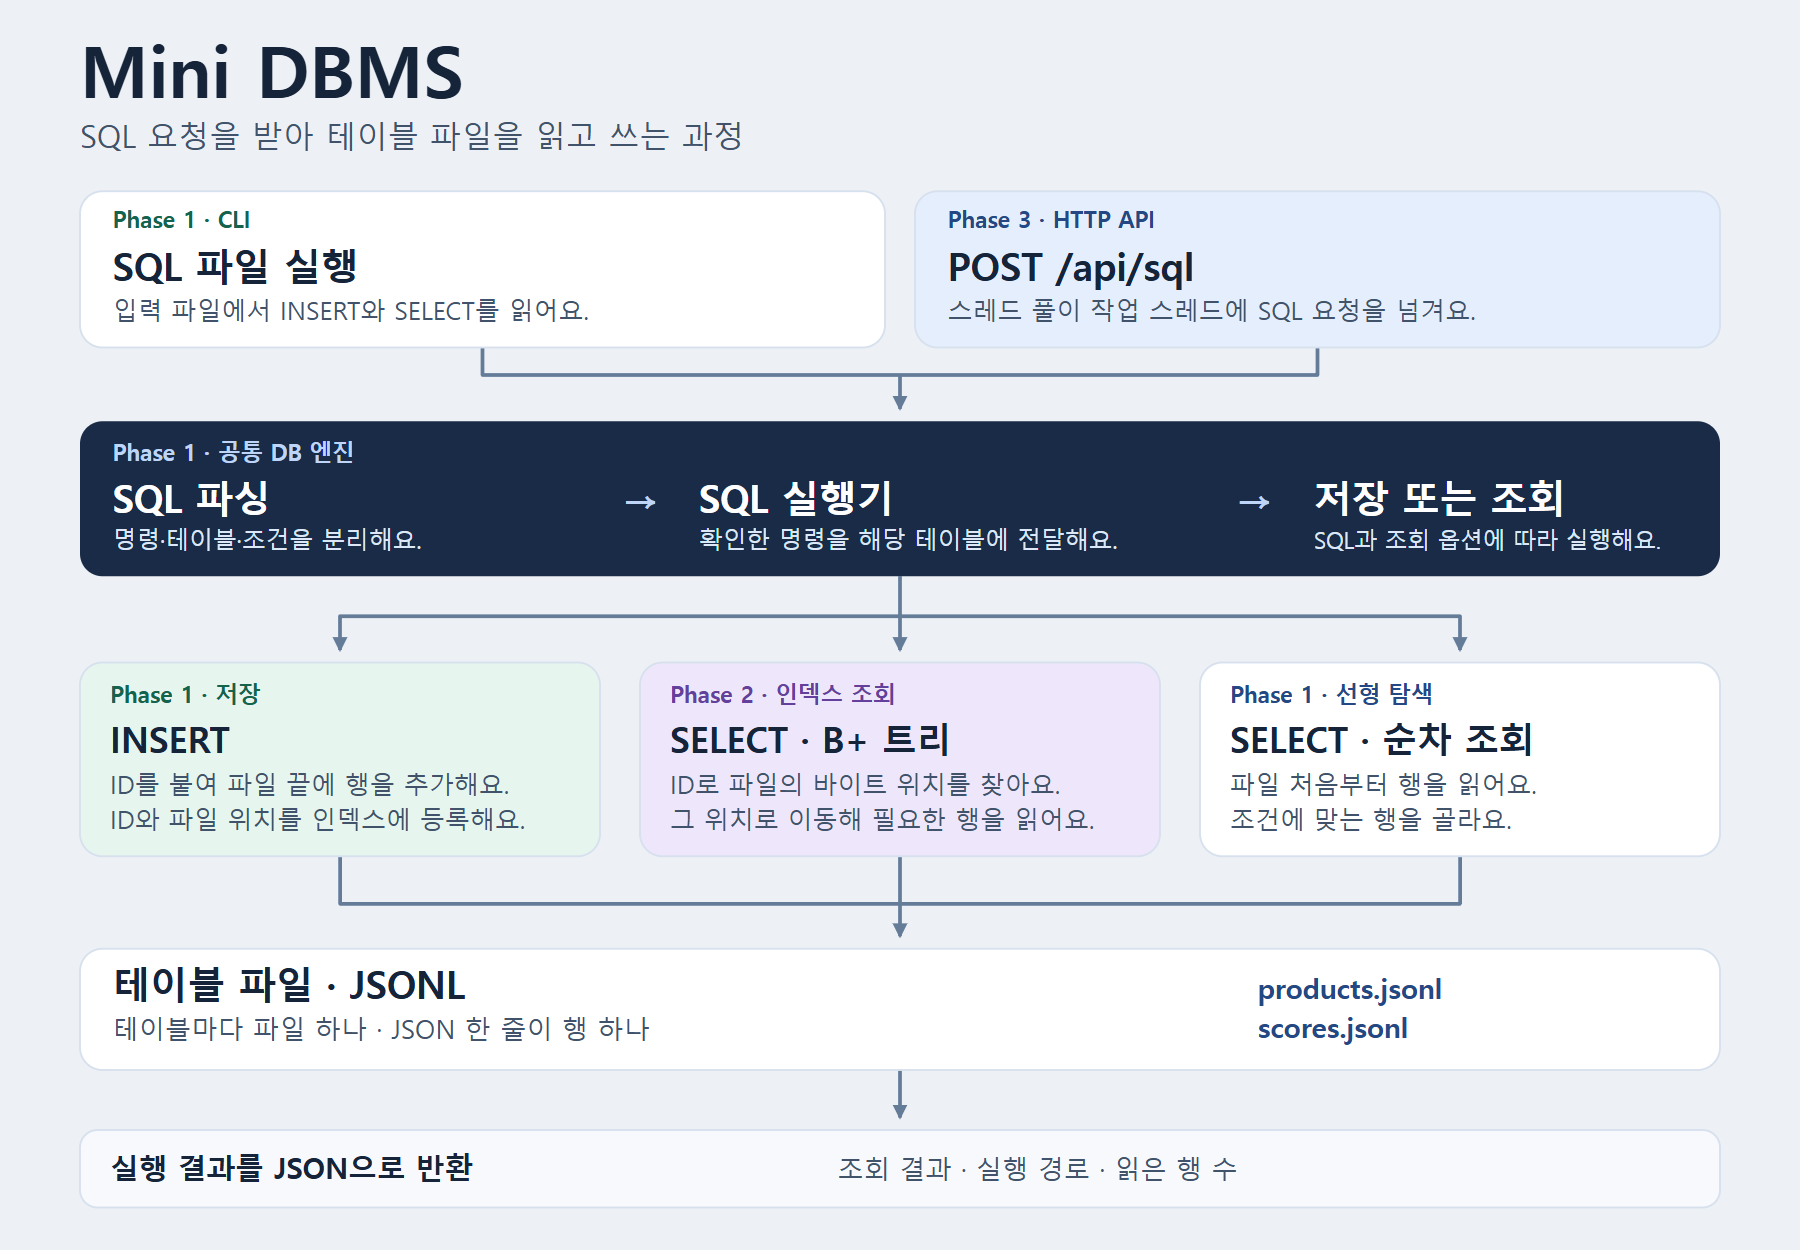
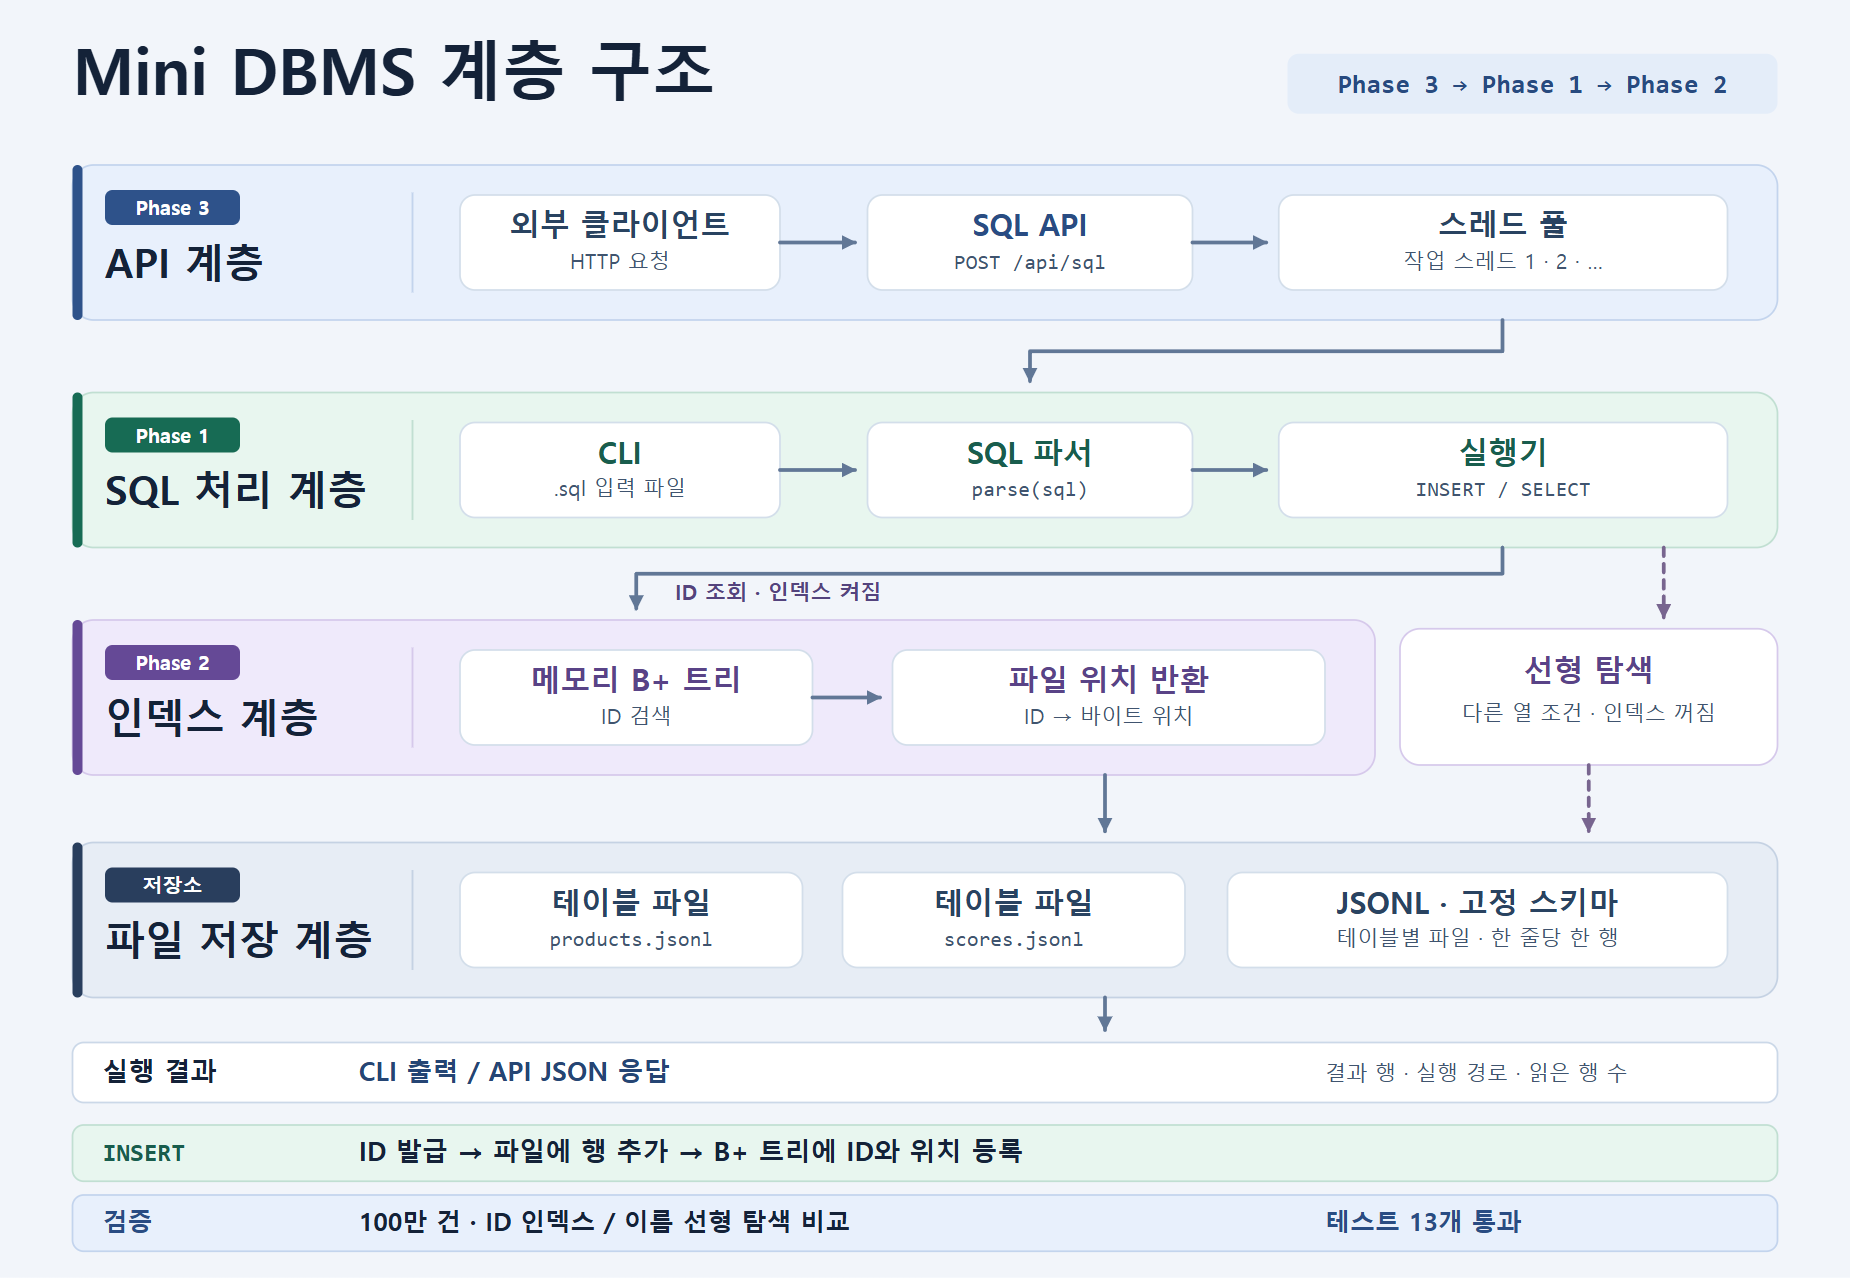
Document Mini DBMS layers with architecture diagram

diff --git a/readme.md b/readme.md
@@ -1,0 +1,16 @@
+# Mini DBMS
+
+SQL을 직접 해석하고 테이블 파일에 행을 저장하는 Python 기반 데이터베이스입니다.
+
+![Mini DBMS 계층도. Phase 3 API, Phase 1 SQL 처리, Phase 2 인덱스, 파일 저장 계층 순서와 선형 탐색 경로](mini-dbms/docs/architecture.png)
+
+API에서 인덱스를 사용하는 ID 조회는 **Phase 3 스레드 풀 → Phase 1 SQL 처리기 → Phase 2 B+ 트리** 순서로 이어집니다. B+ 트리는 행이 있는 파일 위치를 반환합니다. 인덱스가 적용되지 않는 조회는 테이블 파일을 순서대로 읽습니다. CLI로 `.sql` 파일을 실행하면 Phase 1의 같은 SQL 처리기로 들어갑니다.
+
+## 바로 실행하기
+
+~~~powershell
+cd mini-dbms
+python -m mini_dbms.cli examples/demo.sql
+~~~
+
+[전체 실행 방법과 API 예제](mini-dbms/README.md) · [100만 건 성능 비교 결과](mini-dbms/reports/benchmark.json)

diff --git a/mini-dbms/README.md b/mini-dbms/README.md
@@ -2,7 +2,11 @@
 
 SQL을 직접 파싱하고 실행하는 Python 파일 기반 데이터베이스입니다. Python 3.11 이상과 표준 라이브러리로 실행할 수 있습니다.
 
-![CLI와 HTTP API가 공통 SQL 엔진으로 들어가고, 저장과 두 가지 조회 경로를 통해 테이블 파일을 사용하는 흐름도](docs/architecture.png)
+## 계층 구조
+
+![Mini DBMS 계층도. Phase 3 API, Phase 1 SQL 처리, Phase 2 인덱스, 파일 저장 계층 순서와 선형 탐색 경로](docs/architecture.png)
+
+그림은 API에서 인덱스를 사용하는 ID 조회가 **Phase 3 → Phase 1 → Phase 2 → 파일 저장 계층**을 거치는 순서를 보여줍니다. CLI는 SQL 처리 계층으로 바로 들어갑니다. 인덱스가 적용되지 않는 조회는 오른쪽 선형 탐색 경로를 따라갑니다.
 
 ## Phase 1 · SQL 파일 실행
 
